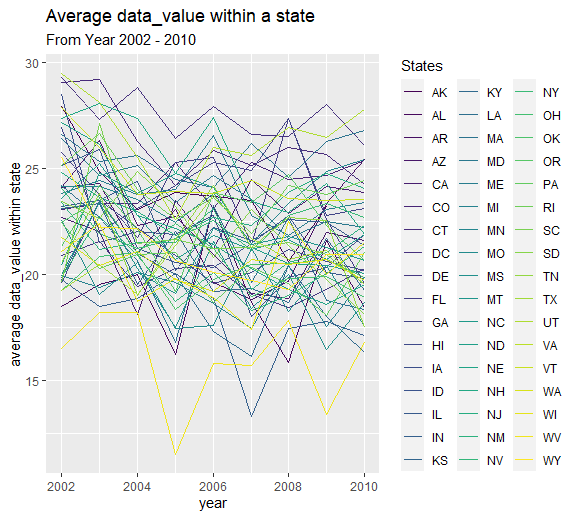
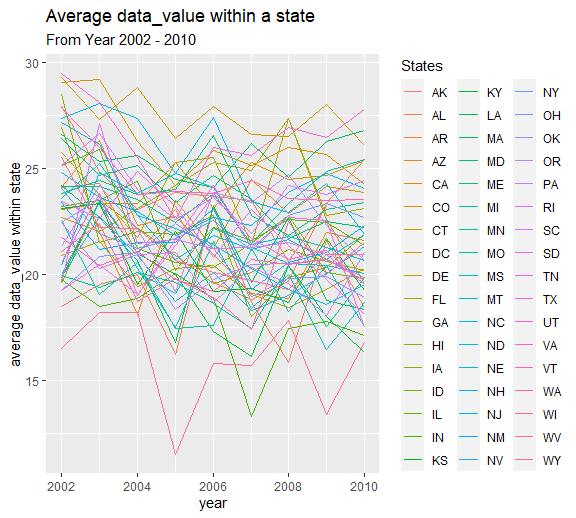
Some minor revisions

diff --git a/p8105_hw3_ml4701.md b/p8105_hw3_ml4701.md
@@ -236,14 +236,18 @@ instacart %>%
   summarize(n_items = n()) %>% 
   filter(n_items > 10000) %>% 
   mutate(aisle = fct_reorder(aisle,n_items),
+         n_level = case_when(n_items < 20000 ~ "below 20,000",
+                           n_items > 20000 ~ "above 20,000")
          ) %>% 
-  ggplot(aes(x = n_items, y = aisle))+
-  geom_point(color = 4,size = 2, alpha = .6)+
+  ggplot(aes(x = aisle, y = n_items,fill = n_level))+
+  geom_bar(stat = "identity",alpha = .6)+
+  coord_flip() +
   labs(
     title = "Number of items ordered in each aisle",
-    subtitle = "(for number of items more than 10000)",
-    x = "Number of items",
-    y = "Aisle"
+    subtitle = "(for number of items more than 10,000)",
+    x = "Aisle",
+    y = "Number of items",
+    fill = "Level of item numbers"
   )
 ```
 
@@ -294,7 +298,7 @@ hour_week = instacart %>%
   select(product_name, order_dow,order_hour_of_day) %>% 
   filter(product_name == "Pink Lady Apples" | product_name == "Coffee Ice Cream") %>% 
   group_by(product_name,order_dow) %>% 
-  mutate(mean_hour = mean(order_hour_of_day)) %>% 
+  mutate(mean_hour = round(mean(order_hour_of_day))) %>% 
   select(-order_hour_of_day) %>% 
   distinct() %>% 
   pivot_wider(names_from = order_dow,values_from = mean_hour,names_sort = TRUE)
@@ -303,10 +307,10 @@ colnames(hour_week) = c("Products/Days","Sun","Mon","Tue","Wed","Thu","Fri","Sat
 knitr::kable(hour_week)
 ```
 
-| Products/Days    |      Sun |      Mon |      Tue |      Wed |      Thu |      Fri |      Sat |
-|:-----------------|---------:|---------:|---------:|---------:|---------:|---------:|---------:|
-| Pink Lady Apples | 13.44118 | 11.36000 | 11.70213 | 14.25000 | 11.55172 | 12.78431 | 11.93750 |
-| Coffee Ice Cream | 13.77419 | 14.31579 | 15.38095 | 15.31818 | 15.21739 | 12.26316 | 13.83333 |
+| Products/Days    | Sun | Mon | Tue | Wed | Thu | Fri | Sat |
+|:-----------------|----:|----:|----:|----:|----:|----:|----:|
+| Pink Lady Apples |  13 |  11 |  12 |  14 |  12 |  13 |  12 |
+| Coffee Ice Cream |  14 |  14 |  15 |  15 |  15 |  12 |  14 |
 
 The above 2\*7 table shows the mean hour of the day at which
 `Pink Lady Apples` and `Coffee Ice Cream` are ordered from Sun to Sat.
@@ -461,13 +465,13 @@ below.
 ``` r
 excl_df %>% 
   ggplot(aes(x = year, y = mean_data_value, group = locationabbr, color = locationabbr)) +
-  geom_line()+
+  geom_line(size = .7)+
   labs(
     title = "Average data_value within a state",
     subtitle = "From Year 2002 - 2010",
-    y = "average data_value within state"
-  )+
-  scale_color_viridis(name = "States",discrete = TRUE)
+    y = "average data_value within state",
+    color = "States"
+  )
 ```
 
 <img src="p8105_hw3_ml4701_files/figure-gfm/unnamed-chunk-15-1.png" width="90%" />
@@ -508,10 +512,11 @@ brfss %>%
 #### Loading and tidying data
 
 ``` r
-accel_df = read_csv("data/accel_data.csv") %>% 
+accel_df = read_csv("data/accel_data.csv") %>%
   janitor::clean_names() %>% 
   mutate(
     weekend = ifelse(day %in% c("Saturday","Sunday"),1,0),
+         day = factor(day,levels = c("Sunday","Monday","Tuesday","Wednesday","Thursday","Friday","Saturday"))
     ) %>% 
   pivot_longer(4:1443,names_to = "minute", names_prefix = "activity_",values_to = "activity_count") %>% 
   mutate(
@@ -540,9 +545,9 @@ After data wrangling, the resulting dataframe has 50400 observations and
     from 1 to 5.
 -   `day_id`: numeric variable from the original data, contains 35
     integers from 1 to 35.
--   `day`: `day` variable from the original data, is a character
-    variable containing 7 unique values Friday, Monday, Saturday,
-    Sunday, Thursday, Tuesday, Wednesday
+-   `day`: `day` character variable containing 7 unique values Sunday,
+    Monday, Tuesday, Wednesday, Thursday, Friday, Saturday from the
+    original data, here converted to factor variable.
 -   `weekend`: a newly created factor variable containing factors `1`
     and `0`, where `1` stands for weekend, and `0` stands for weekdays.
 -   `minute`: a newly created numeric variable by `pivot_longer` of the
@@ -571,36 +576,86 @@ knitr::kable(head(accel_df,10))
 |    1 |       1 | Friday | 0       |      9 |        55.46667 |
 |    1 |       1 | Friday | 0       |     10 |        42.95556 |
 
-Traditional analyses of accelerometer data focus on the total activity
-over the day. Using your tidied dataset, aggregate across minutes to
-create a total activity variable for each day, and create a table
-showing these totals. Are any trends apparent?
-
 #### 2.
 
-The above scatter plot shows the total activity counts calculated from
-the `accel_df` dataset over days.
+The following table presents the total activity counts calculated from
+the `accel_df` dataset over days. Also, a scatter plot is generated to
+help observe whether there’s a trend line under the data.
 
 ``` r
 accel_df %>% 
-  group_by(day_id) %>% 
+  group_by(day_id,day) %>% 
   summarize(total_activity_count = sum(activity_count)) %>% 
-  ggplot(aes(x = day_id, y = total_activity_count))+
-  geom_point(color = 4,size = 3,alpha = .6)+
+  knitr::kable()
+```
+
+    ## `summarise()` has grouped output by 'day_id'. You can override using the `.groups` argument.
+
+| day\_id | day       | total\_activity\_count |
+|--------:|:----------|-----------------------:|
+|       1 | Friday    |              480542.62 |
+|       2 | Monday    |               78828.07 |
+|       3 | Saturday  |              376254.00 |
+|       4 | Sunday    |              631105.00 |
+|       5 | Thursday  |              355923.64 |
+|       6 | Tuesday   |              307094.24 |
+|       7 | Wednesday |              340115.01 |
+|       8 | Friday    |              568839.00 |
+|       9 | Monday    |              295431.00 |
+|      10 | Saturday  |              607175.00 |
+|      11 | Sunday    |              422018.00 |
+|      12 | Thursday  |              474048.00 |
+|      13 | Tuesday   |              423245.00 |
+|      14 | Wednesday |              440962.00 |
+|      15 | Friday    |              467420.00 |
+|      16 | Monday    |              685910.00 |
+|      17 | Saturday  |              382928.00 |
+|      18 | Sunday    |              467052.00 |
+|      19 | Thursday  |              371230.00 |
+|      20 | Tuesday   |              381507.00 |
+|      21 | Wednesday |              468869.00 |
+|      22 | Friday    |              154049.00 |
+|      23 | Monday    |              409450.00 |
+|      24 | Saturday  |                1440.00 |
+|      25 | Sunday    |              260617.00 |
+|      26 | Thursday  |              340291.00 |
+|      27 | Tuesday   |              319568.00 |
+|      28 | Wednesday |              434460.00 |
+|      29 | Friday    |              620860.00 |
+|      30 | Monday    |              389080.00 |
+|      31 | Saturday  |                1440.00 |
+|      32 | Sunday    |              138421.00 |
+|      33 | Thursday  |              549658.00 |
+|      34 | Tuesday   |              367824.00 |
+|      35 | Wednesday |              445366.00 |
+
+``` r
+accel_df %>% 
+  group_by(day_id,day) %>% 
+  summarize(total_activity_count = sum(activity_count)) %>%
+  ggplot(aes(x = day_id, y = total_activity_count,color = day))+
+  geom_point(size = 3,alpha = .6)+
+  geom_line(aes(group = day),size = .8)+
   labs(
     title = "Total activity counts over days",
     x = "Day",
-    y = "Total activity counts"
-  )+scale_y_continuous(
+    y = "Total activity counts",
+    color = "Day of the week"
+  )+ scale_x_continuous(
+    breaks = c(1,8,15,22,29,35),
+    labels = c(1,8,15,22,29,35)
+  )+ scale_y_continuous(
     breaks = c(0,200000,400000,600000),
     labels = c(0,'200,000','400,000','600,000')
   )
 ```
 
+    ## `summarise()` has grouped output by 'day_id'. You can override using the `.groups` argument.
+
 <img src="p8105_hw3_ml4701_files/figure-gfm/unnamed-chunk-19-1.png" width="90%" />
 
-From the plot, total activity counts seem to jump up and down across
-days and does not have apparent daily trends.
+From both the table and plot, total activity counts does not seem have
+apparent trends.
 
 #### 3.
 
@@ -619,8 +674,7 @@ different colors represent for day of the week.
 ``` r
 accel_df %>% 
   mutate(hour_0_24 = floor(minute/60),
-         hour = ifelse(hour_0_24 == 24, 0, hour_0_24),
-         day = factor(day,levels = c("Sunday","Monday","Tuesday","Wednesday","Thursday","Friday","Saturday"))) %>% 
+         hour = ifelse(hour_0_24 == 24, 0, hour_0_24)) %>% 
   group_by(hour,day_id,day) %>%
   summarize(activity_count_hour = sum(activity_count)) %>%
   ggplot(aes(x = hour, y = activity_count_hour,group = day_id,color = day))+
